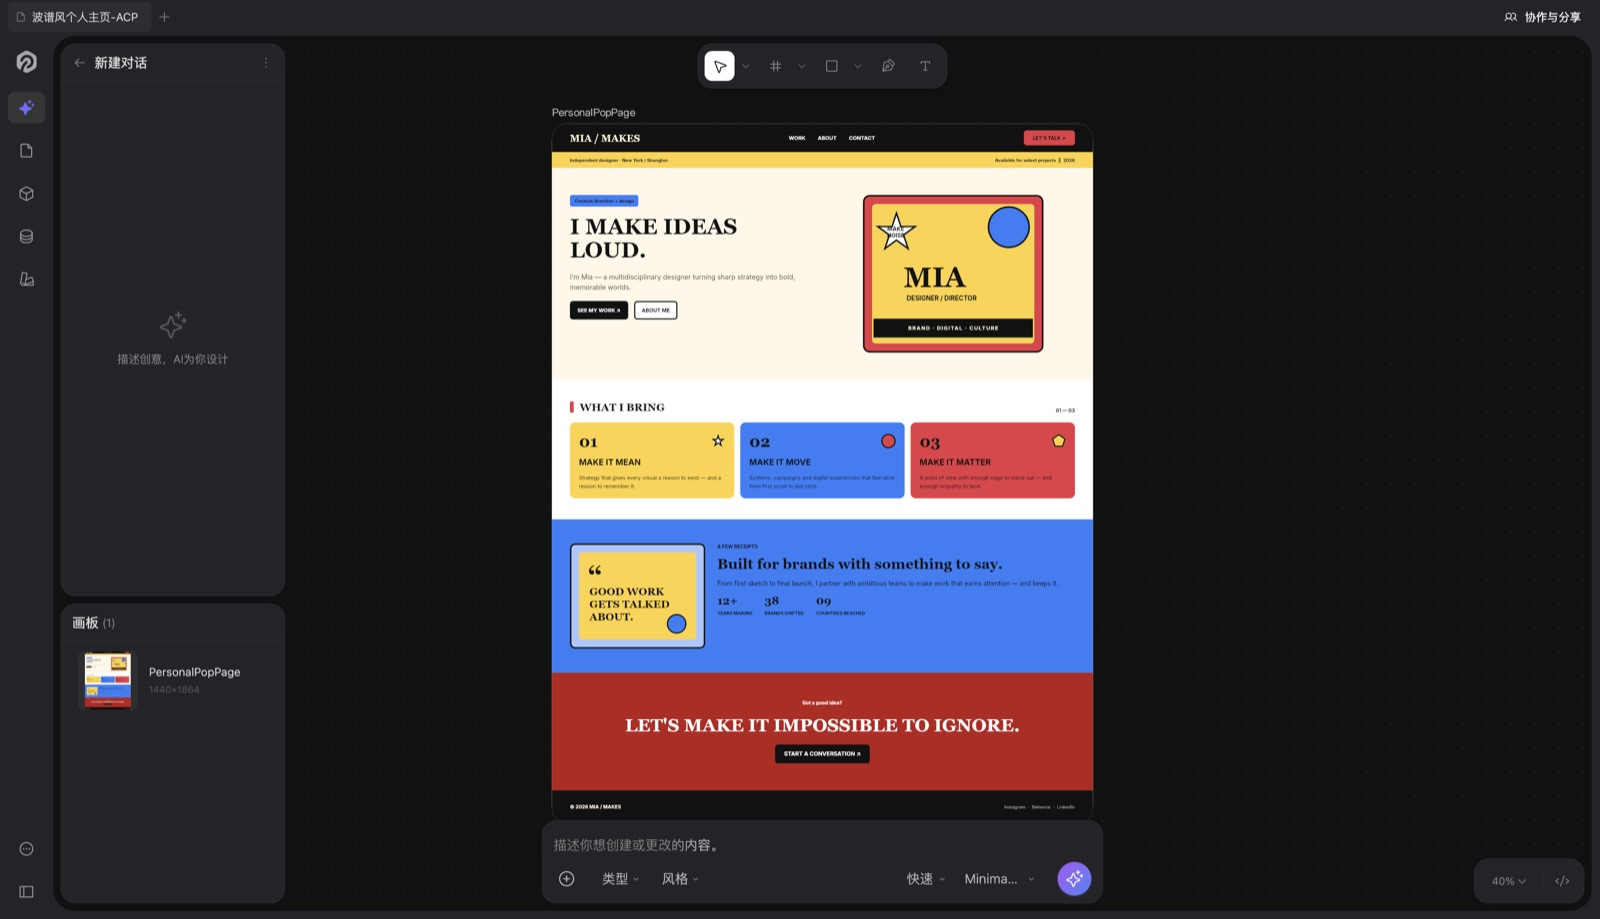
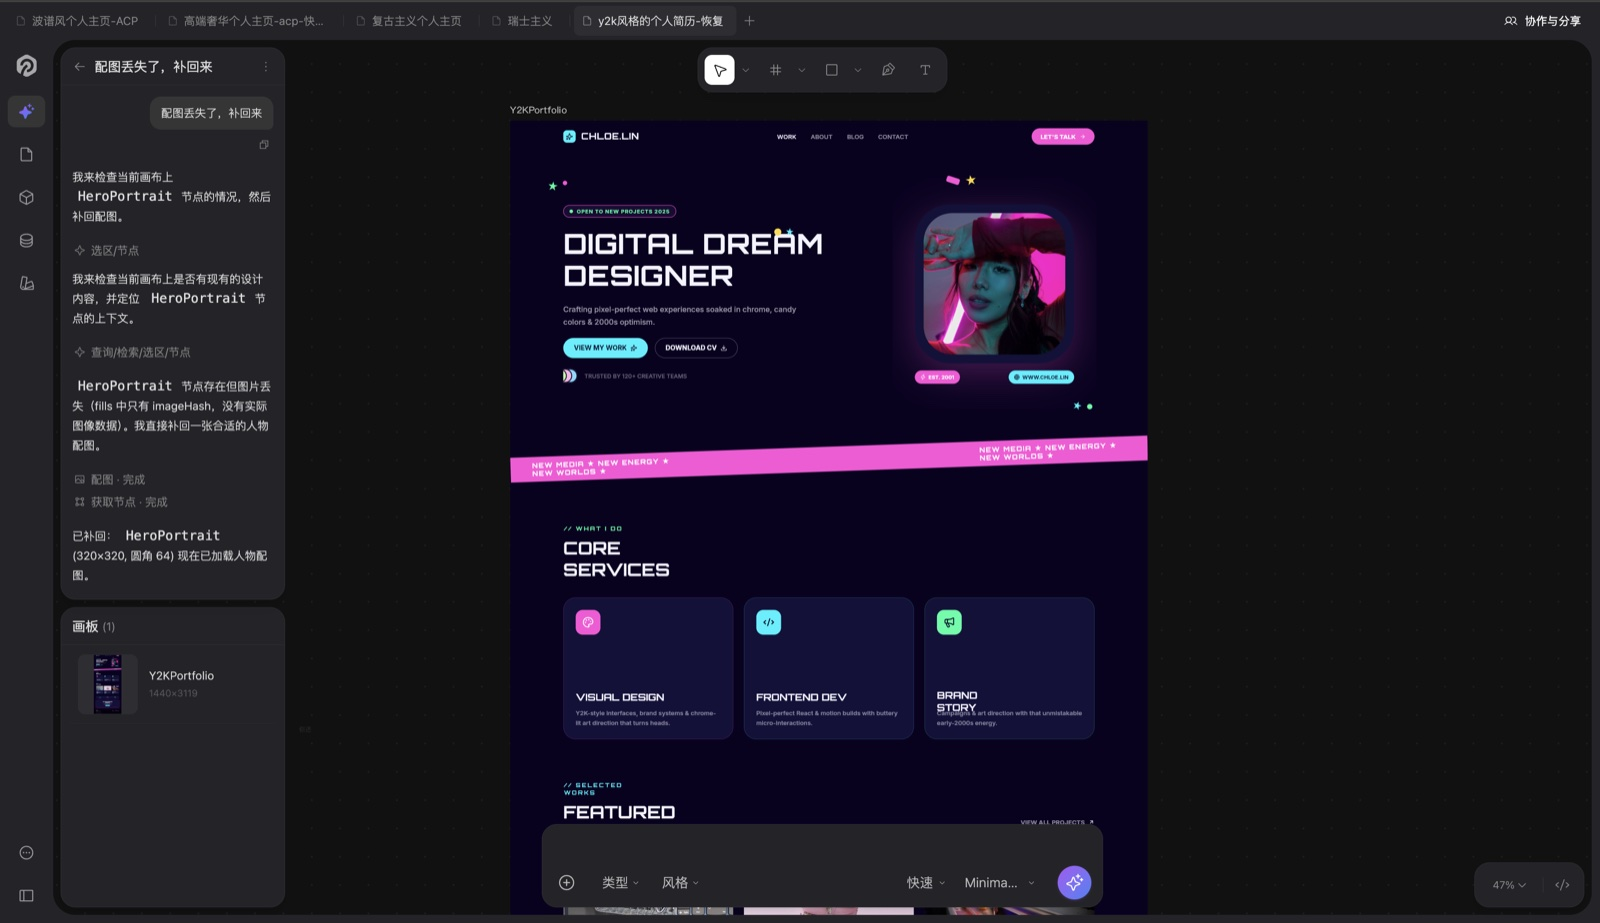
docs: swap cover shot — Starry repairing a Y2K portfolio on canvas

diff --git a/README.hi.md b/README.hi.md
@@ -2,7 +2,7 @@
 
 # Starry — आपका AI डिज़ाइन पार्टनर
 
-<p align="center"><img src="assets/cover-editor.jpg" alt="Starry canvas — an AI-generated bold personal landing page" width="100%"></p>
+<p align="center"><img src="assets/cover-editor.jpg" alt="Starry canvas — AI repairing a lost image node in a Y2K portfolio design" width="100%"></p>
 
 > AI सहयोग के लिए बनाया गया डिज़ाइन टूल। स्थानीय प्रथम, ACP और MCP द्वारा संचालित — प्राकृतिक भाषा को सटीक UI विनिर्देश और उत्पादन कोड में बदलता है।
 

diff --git a/README.ru.md b/README.ru.md
@@ -2,7 +2,7 @@
 
 # Starry — Твой ИИ-партнёр по дизайну
 
-<p align="center"><img src="assets/cover-editor.jpg" alt="Starry canvas — an AI-generated bold personal landing page" width="100%"></p>
+<p align="center"><img src="assets/cover-editor.jpg" alt="Starry canvas — AI repairing a lost image node in a Y2K portfolio design" width="100%"></p>
 
 > Инструмент для дизайна, созданный для работы с ИИ. Локально в первую очередь, на базе ACP и MCP — превращает естественный язык в точные UI-спецификации и production-код.
 

diff --git a/README.ja.md b/README.ja.md
@@ -2,7 +2,7 @@
 
 # Starry — あなたのAIデザインパートナー
 
-<p align="center"><img src="assets/cover-editor.jpg" alt="Starry canvas — an AI-generated bold personal landing page" width="100%"></p>
+<p align="center"><img src="assets/cover-editor.jpg" alt="Starry canvas — AI repairing a lost image node in a Y2K portfolio design" width="100%"></p>
 
 > AIコラボレーションのために生まれたデザインツール。ローカルファースト、ACPとMCPにより、自然言語を正確なUI仕様とプロダクションコードへ変換します。
 

diff --git a/README.es.md b/README.es.md
@@ -2,7 +2,7 @@
 
 # Starry — Tu socio de diseño con IA
 
-<p align="center"><img src="assets/cover-editor.jpg" alt="Starry canvas — an AI-generated bold personal landing page" width="100%"></p>
+<p align="center"><img src="assets/cover-editor.jpg" alt="Starry canvas — AI repairing a lost image node in a Y2K portfolio design" width="100%"></p>
 
 > La herramienta de diseño creada para la colaboración con IA. Local primero, impulsada por ACP y MCP — convierte el lenguaje natural en especificaciones UI precisas y código de producción.
 

diff --git a/README.it.md b/README.it.md
@@ -2,7 +2,7 @@
 
 # Starry — Il tuo partner di design IA
 
-<p align="center"><img src="assets/cover-editor.jpg" alt="Starry canvas — an AI-generated bold personal landing page" width="100%"></p>
+<p align="center"><img src="assets/cover-editor.jpg" alt="Starry canvas — AI repairing a lost image node in a Y2K portfolio design" width="100%"></p>
 
 > Lo strumento di design creato per la collaborazione con l'IA. Locale prima di tutto, basato su ACP e MCP — trasforma il linguaggio naturale in specifiche UI precise e codice di produzione.
 

diff --git a/README.pl.md b/README.pl.md
@@ -2,7 +2,7 @@
 
 # Starry — Twój partner projektowy AI
 
-<p align="center"><img src="assets/cover-editor.jpg" alt="Starry canvas — an AI-generated bold personal landing page" width="100%"></p>
+<p align="center"><img src="assets/cover-editor.jpg" alt="Starry canvas — AI repairing a lost image node in a Y2K portfolio design" width="100%"></p>
 
 > Narzędzie do projektowania stworzone do współpracy z AI. Lokalnie przede wszystkim, oparte na ACP i MCP — zamienia język naturalny w precyzyjne specyfikacje UI i kod produkcyjny.
 

diff --git a/README.fr.md b/README.fr.md
@@ -2,7 +2,7 @@
 
 # Starry — Ton partenaire de design IA
 
-<p align="center"><img src="assets/cover-editor.jpg" alt="Starry canvas — an AI-generated bold personal landing page" width="100%"></p>
+<p align="center"><img src="assets/cover-editor.jpg" alt="Starry canvas — AI repairing a lost image node in a Y2K portfolio design" width="100%"></p>
 
 > L'outil de design conçu pour la collaboration IA. Local d'abord, propulsé par ACP et MCP — transforme le langage naturel en spécifications UI précises et en code de production.
 

diff --git a/README.pt-BR.md b/README.pt-BR.md
@@ -2,7 +2,7 @@
 
 # Starry — Seu parceiro de design IA
 
-<p align="center"><img src="assets/cover-editor.jpg" alt="Starry canvas — an AI-generated bold personal landing page" width="100%"></p>
+<p align="center"><img src="assets/cover-editor.jpg" alt="Starry canvas — AI repairing a lost image node in a Y2K portfolio design" width="100%"></p>
 
 > A ferramenta de design criada para colaboração com IA. Local primeiro, com ACP e MCP — transforma linguagem natural em especificações UI precisas e código de produção.
 

diff --git a/README.de.md b/README.de.md
@@ -2,7 +2,7 @@
 
 # Starry — Dein AI-Design-Partner
 
-<p align="center"><img src="assets/cover-editor.jpg" alt="Starry canvas — an AI-generated bold personal landing page" width="100%"></p>
+<p align="center"><img src="assets/cover-editor.jpg" alt="Starry canvas — AI repairing a lost image node in a Y2K portfolio design" width="100%"></p>
 
 > Das Design-Tool für die Zusammenarbeit mit KI. Lokal zuerst, powered by ACP & MCP — verwandelt natürliche Sprache in präzise UI-Spezifikationen und Produktionscode.
 

diff --git a/README.ko.md b/README.ko.md
@@ -2,7 +2,7 @@
 
 # Starry — 당신의AI 디자인 파트너
 
-<p align="center"><img src="assets/cover-editor.jpg" alt="Starry canvas — an AI-generated bold personal landing page" width="100%"></p>
+<p align="center"><img src="assets/cover-editor.jpg" alt="Starry canvas — AI repairing a lost image node in a Y2K portfolio design" width="100%"></p>
 
 > AI 협업을 위해 태어난 디자인 도구. 로컬 우선, ACP 및 MCP를 통해 자연어를 정밀한 UI 사양과 프로덕션 코드로 전환합니다.
 

diff --git a/README.md b/README.md
@@ -2,7 +2,7 @@
 
 # Starry — Your AI design partner.
 
-<p align="center"><img src="assets/cover-editor.jpg" alt="Starry canvas — an AI-generated bold personal landing page" width="100%"></p>
+<p align="center"><img src="assets/cover-editor.jpg" alt="Starry canvas — AI repairing a lost image node in a Y2K portfolio design" width="100%"></p>
 
 > The design tool built for AI collaboration. Local-first, powered by ACP & MCP — turning natural language into precise UI specs and production code.
 

diff --git a/README.zh-TW.md b/README.zh-TW.md
@@ -2,7 +2,7 @@
 
 # Starry — 你的AI設計夥伴
 
-<p align="center"><img src="assets/cover-editor.jpg" alt="Starry canvas — an AI-generated bold personal landing page" width="100%"></p>
+<p align="center"><img src="assets/cover-editor.jpg" alt="Starry canvas — AI repairing a lost image node in a Y2K portfolio design" width="100%"></p>
 
 > 為 AI 協作而生的設計工具。本地優先，基於 ACP 與 MCP 協定，將自然語言、精確 UI 規範與生產程式碼無縫打通。
 
